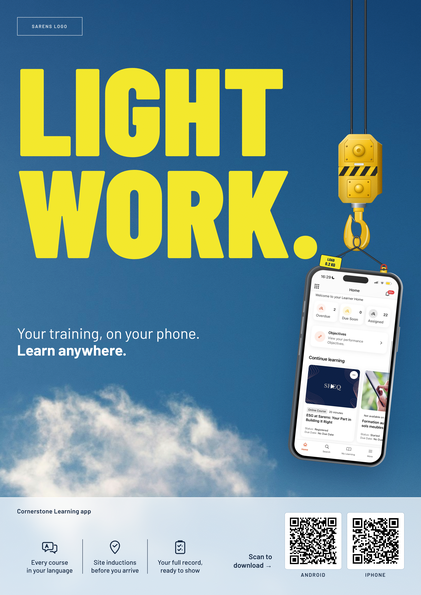
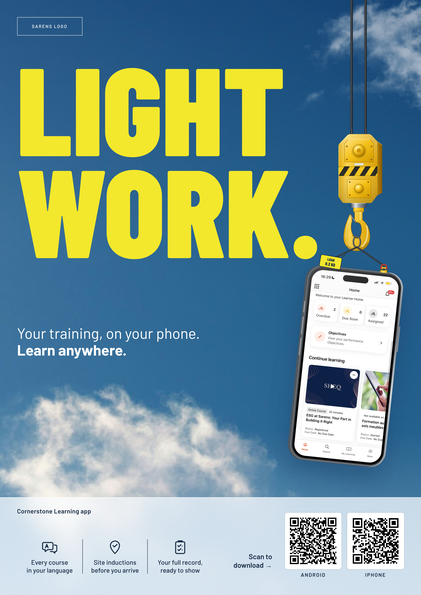
Light work (wisp): add partial cloud in the top-right corner
Cloud cut from the same sky photo with a brightness mask, mirrored,
rotated and cropped by the edge; layered under the depth fades.

Claude-Session: https://claude.ai/code/session_01X2Rbh1qXJbUgouSSLpvcgM

Changed region(s): [[0.772, 0.0, 1.0, 0.1815], [0.7411, 0.1513, 0.772, 0.1815]]

diff --git a/poster-round2/E1b-light-work-wisp.html b/poster-round2/E1b-light-work-wisp.html
@@ -19,7 +19,7 @@ const COPY = {
   logo:     "Sarens logo"
 };
 /* ===== LAYOUT (mm). Change positions here, not in the code. ===== */
-const L = {"sky": {"top": "#1a5796", "mid": "#4886bf", "bottom": "#a7c9e5", "clouds": [[55, 352, 150, 11], [268, 336, 110, 12], [296, 170, 52, 13], [160, 372, 96, 14]]}, "headStyle": {"left": "15mm", "top": "42mm", "width": "225mm", "fontSize": "88mm", "color": "#F3E72A"}, "payoffStyle": {"left": "15mm", "top": "232mm", "width": "175mm", "color": "#fff"}, "logoStyle": {"left": "15mm", "right": "auto", "color": "#fff"}, "rope": {"x": 256}, "hook": {"top": 94, "w": 40}, "phone": {"w": 68, "h": 138, "rot": 6, "drop": 22}, "skyImg": {"src": "img/sky-wisp.jpg", "size": "160% auto", "pos": "93% 0%", "filter": "hue-rotate(14deg) saturate(1.18) brightness(1.04) contrast(1.05)", "fade": "linear-gradient(180deg,rgba(8,40,90,.30) 0%,rgba(8,40,90,0) 38%,rgba(255,255,255,0) 72%,rgba(225,236,248,.30) 100%)"}};
+const L = {"sky": {"top": "#1a5796", "mid": "#4886bf", "bottom": "#a7c9e5", "clouds": [[55, 352, 150, 11], [268, 336, 110, 12], [296, 170, 52, 13], [160, 372, 96, 14]]}, "headStyle": {"left": "15mm", "top": "42mm", "width": "225mm", "fontSize": "88mm", "color": "#F3E72A"}, "payoffStyle": {"left": "15mm", "top": "232mm", "width": "175mm", "color": "#fff"}, "logoStyle": {"left": "15mm", "right": "auto", "color": "#fff"}, "rope": {"x": 256}, "hook": {"top": 94, "w": 40}, "phone": {"w": 68, "h": 138, "rot": 6, "drop": 22}, "skyImg": {"src": "img/sky-wisp.jpg", "size": "160% auto", "pos": "93% 0%", "filter": "hue-rotate(14deg) saturate(1.18) brightness(1.04) contrast(1.05)", "fade": "linear-gradient(180deg,rgba(8,40,90,.30) 0%,rgba(8,40,90,0) 38%,rgba(255,255,255,0) 72%,rgba(225,236,248,.30) 100%)", "extra": [{"src": "img/cloud-wisp.png", "x": 212, "y": -10, "w": 150, "flip": true, "rot": -6, "opacity": 0.82}]}};
 </script>
 </head>
 <body><div class="poster"></div>

diff --git a/poster-round2/poster.js b/poster-round2/poster.js
@@ -27,8 +27,9 @@ function build(){
   // real sky photo wins if img/sky.jpg exists; otherwise the drawn sky
   if(L.skyImg){  // real sky photo: position, colour grade, then depth fades so it sits with the brand blue
     const k=L.skyImg, el=document.getElementById('sky');
+    const extra=(k.extra||[]).map(c=>`<img src="${c.src}" style="position:absolute;left:${c.x}mm;top:${c.y}mm;width:${c.w}mm;opacity:${c.opacity??1};transform:${c.flip?'scaleX(-1) ':''}rotate(${c.rot||0}deg)">`).join('');
     el.innerHTML=`<div style="position:absolute;inset:0;background:url(${k.src}) ${k.pos}/${k.size} no-repeat;filter:${k.filter||'none'};transform:${k.flip?'scaleX(-1)':'none'}"></div>
-      <div style="position:absolute;inset:0;background:${k.fade||'none'}"></div>`;
+      ${extra}<div style="position:absolute;inset:0;background:${k.fade||'none'}"></div>`;
   } else sky(document.getElementById('sky'),L.sky);
   Object.assign(document.querySelector('.headline').style,L.headStyle);
   Object.assign(document.querySelector('.payoff').style,L.payoffStyle);
